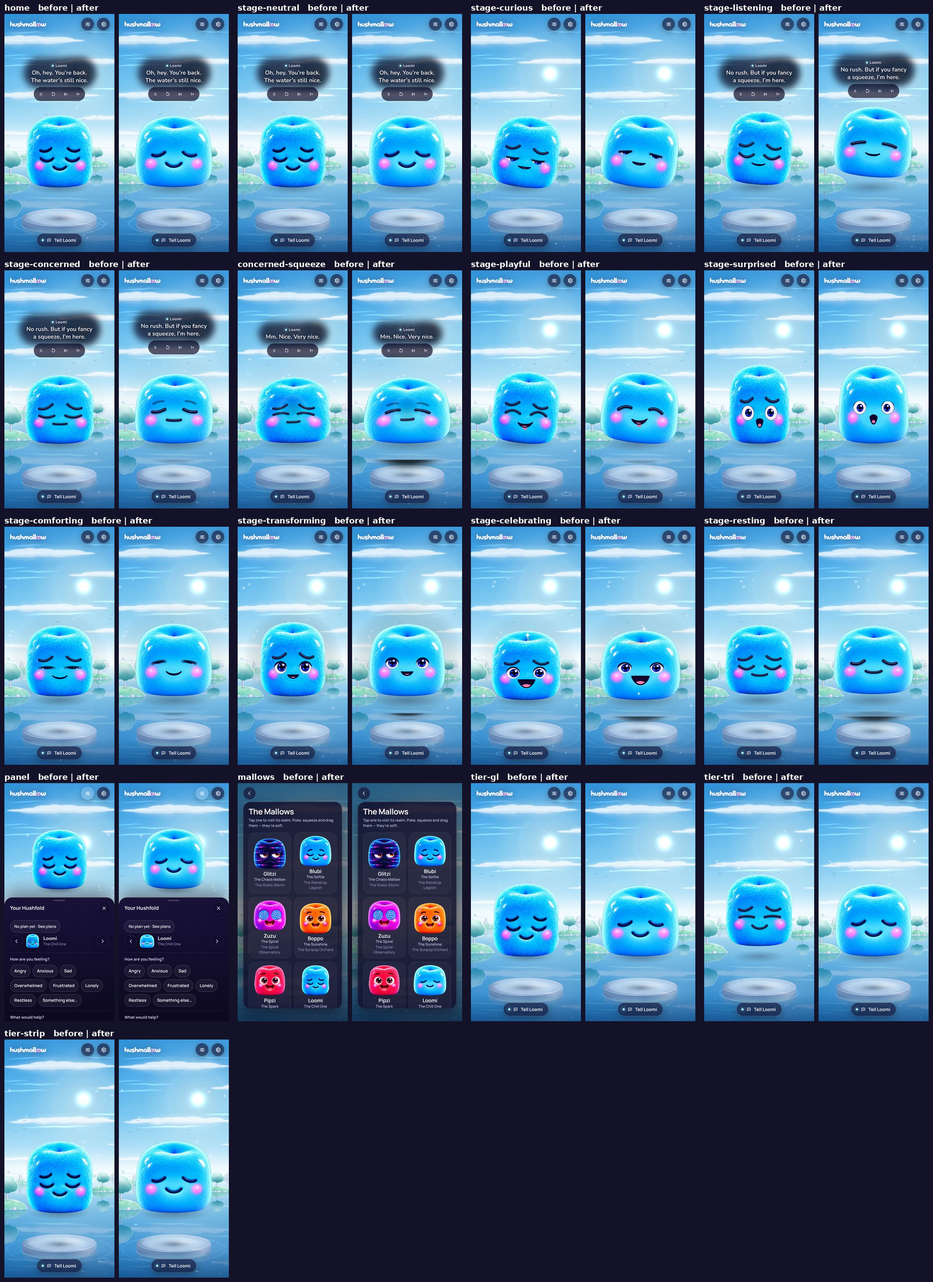
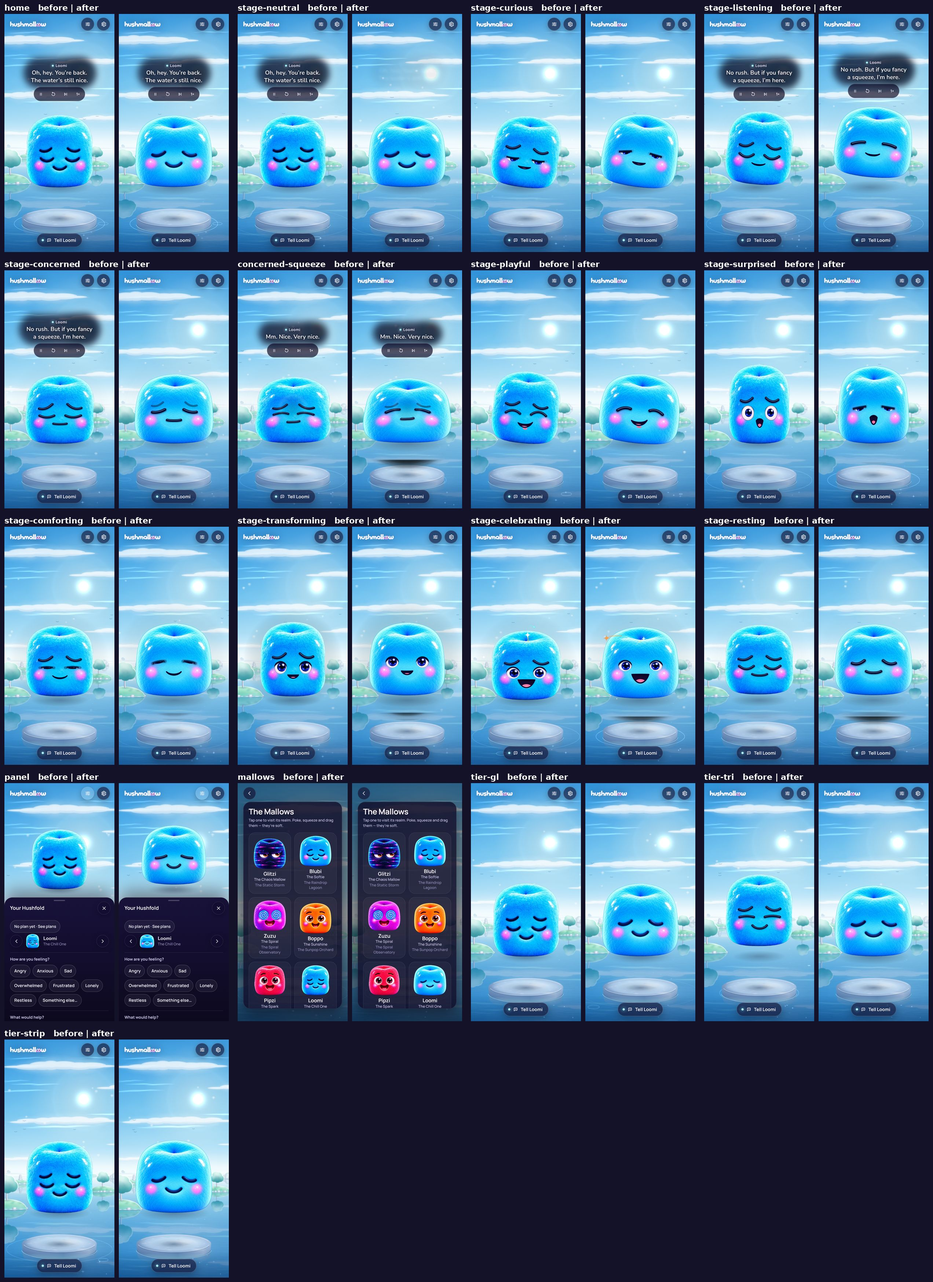
Revert "Hi-res Loomi: arched brows, a stale-proof sweep record, review fixes"
This reverts commit a8fba8b5ab921573841038b2f09a7366df6a7551.

diff --git a/hushmallow/tools/hires/lab/check.js b/hushmallow/tools/hires/lab/check.js
@@ -36,8 +36,6 @@ const tableUrl = Q.get('table') ? new URL(Q.get('table'), location.href).href : 
 
 let RIG, H;
 function make(mid, kind, el, opts = {}) {
-  // kind=old needs the original drawing as its base: without &hires=0 a switched Mallow would draw its new art labelled "old"
-  if (kind === 'old' && MALLOWS[mid].hires) throw new Error(`kind=old: ${mid} is already switched to its high-res rig; add &hires=0 to the URL`);
   // a rig captures MALLOWS[id] when it is built: swap only around the constructor
   const keep = MALLOWS[mid];
   if (kind === 'new') { MALLOWS[mid] = H.hiresMallow(keep, mid); Object.assign(SPRITES, H.HIRES[mid].sprites); }
@@ -250,10 +248,8 @@ async function live() {
 
 // mouth states and talking frames (the Loomi sweep, loomi-sweep.cjs): every
 // mouth parameter at its extremes on rest / happy / concerned, and a talking
-// cycle (mouthOpen 0 -> .6 -> 0) on rest and on the concerned stage, the
-// concerned cells held to the stage's limits as the rig holds them
-// (applyStageLimits: its mouth never opens or smiles past .1 / .2), so the
-// sheet shows what the app can show. window.__info: the concerned maxima.
+// cycle (mouthOpen 0 -> .6 -> 0) on rest and on the concerned stage, whose
+// smile must never turn up (window.__mouths.concernedSmileMax)
 async function mouths() {
   const kind = Q.get('kind') || 'new';
   const rig = make(id, kind, holder(), { pristine: false, skinSize: SK, reducedMotion: true });
@@ -268,21 +264,11 @@ async function mouths() {
     if (bn === 'concerned' && tn) continue;                      // the concerned stage keeps its own mouth (below)
     cells.push([`${bn} ${tn}`.trim(), snap({ skin: renderAt(rig, { ...b, ...t }, { pristine: false, restMix: 0 }) })]);
   }
-  const { applyStageLimits, stageLimits } = RIG.expressions;
-  const lim = stageLimits('concerned');
-  let smileMax = -Infinity, openMax = -Infinity;
   for (const [bn, b] of [['rest', bases.rest], ['concerned', bases.concerned]]) {
-    for (const o of [0, 0.2, 0.4, 0.6, 0.4, 0.2]) {
-      const P = { ...b, mouthOpen: Math.max(b.mouthOpen, o) };
-      if (bn === 'concerned') {
-        applyStageLimits(P, lim, bases.concerned);
-        smileMax = Math.max(smileMax, P.mouthSmile); openMax = Math.max(openMax, P.mouthOpen);
-      }
-      cells.push([`talk ${bn} ${o}`, snap({ skin: renderAt(rig, P, { pristine: false, restMix: 0 }) })]);
-    }
+    for (const o of [0, 0.2, 0.4, 0.6, 0.4, 0.2]) cells.push([`talk ${bn} ${o}`, snap({ skin: renderAt(rig, { ...b, mouthOpen: Math.max(b.mouthOpen, o) }, { pristine: false, restMix: 0 }) })]);
   }
   window.__out = sheet(cells, +(Q.get('cw') || 260), +(Q.get('cols') || 6)).toDataURL('image/png');
-  window.__info = { concernedSmileMax: smileMax, concernedOpenMax: openMax, n: cells.length };
+  window.__info = { concernedSmileMax: bases.concerned.mouthSmile, concernedOpen: bases.concerned.mouthOpen, n: cells.length };
 }
 
 async function jump() {

diff --git a/hushmallow/src/mallows/hires.js b/hushmallow/src/mallows/hires.js
@@ -36,9 +36,9 @@
 // check. HIRES_VERIFIED lists the ones that passed; applyHires() applies those
 // (or the ids you pass) to the registry objects, once, before rigs load.
 // The cyan file without brows is Loomi (owner-approved, workstream
-// hires-loomi): no brows at rest, as drawn; arched brows (build_table.py
-// LOOMI_BROWS) appear only when an expression raises browAlpha, as on Noomi.
-// Sweeps: docs/workstreams/hires-loomi.md.
+// hires-loomi): no brows at rest, as drawn; they appear only when an
+// expression raises browAlpha, as on Noomi. Sweeps:
+// docs/workstreams/hires-loomi.md.
 //
 // Integration (after the patch is merged): in registry.js, once, at the end:
 //   import { applyHires } from './hires.js';  applyHires(MALLOWS, SPRITES);
@@ -547,16 +547,16 @@ const T = {
       },
       brows: {
         L: {
-          p0: [91, 155],
-          c: [115, 145],
-          p1: [139, 152],
+          p0: [84.8, 163.1],
+          c: [111, 175.1],
+          p1: [137.3, 155.1],
           lw: 8.9,
           alpha: 0,
         },
         R: {
-          p0: [246, 151.6],
-          c: [270, 144.6],
-          p1: [294, 154.6],
+          p0: [244.5, 155],
+          c: [271.9, 175.8],
+          p1: [299.4, 161.1],
           lw: 8.8,
           alpha: 0,
         },

diff --git a/hushmallow/tools/hires/build_table.py b/hushmallow/tools/hires/build_table.py
@@ -55,17 +55,7 @@ GLITZI_ROUND_OPEN = {'surprised': 1.4, 'awe': 1.0, 'scared': 0.9}
 #   centred ~1 lw under the groove), not the faint ridge above the current
 #   rig draws; drawn here so the closed frown keeps its carved look at phone
 #   size. [colour, width, offset] in lw units, + = below.
-# Loomi (the browless cyan drawing, owner-approved; workstream hires-loomi):
-#   it paints no brows, so measure.py kept the OLD drawing's brow strokes
-#   relative to the eyes, and those were a second set of lid arcs (U-shaped,
-#   ~20 px above the closed eyes). Faded in by an expression (sad, anxious,
-#   the concerned stage) they read as a ghost double eyelid. These are brows
-#   proper: an arch (control point above the ends) ~30-45 px above the eyes,
-#   placed like Noomi's relative to its eyes, mirrored; still alpha 0 at rest.
-LOOMI_BROWS = {'L': {'p0': [91.0, 155.0], 'c': [115.0, 145.0], 'p1': [139.0, 152.0]},
-               'R': {'p0': [246.0, 151.6], 'c': [270.0, 144.6], 'p1': [294.0, 154.6]}}
-TWEAKS = {'loomi': {('brows', s, k): v for s, b in LOOMI_BROWS.items() for k, v in b.items()},
-          'glitzi': {('eyes', 'L', 'lw'): 6.0, ('eyes', 'R', 'lw'): 6.0,
+TWEAKS = {'glitzi': {('eyes', 'L', 'lw'): 6.0, ('eyes', 'R', 'lw'): 6.0,
                      ('mouth', 'depth'): 27.0, ('mouth', 'upper'): -22.0,
                      ('mouth', 'relief'): [['rgba(34,92,235,0.6)', 0.75, 0.95],
                                            ['rgba(150,190,255,0.16)', 0.5, -0.8]]}}
@@ -346,10 +336,11 @@ head = '''// High-res Mallow rigs: a patch table over registry.js (workstream W7
 // Decision D13: a Mallow switches to its high-res rig only after a visual
 // check. HIRES_VERIFIED lists the ones that passed; applyHires() applies those
 // (or the ids you pass) to the registry objects, once, before rigs load.
-// The cyan file without brows is Loomi (owner-approved, workstream
-// hires-loomi): no brows at rest, as drawn; arched brows (build_table.py
-// LOOMI_BROWS) appear only when an expression raises browAlpha, as on Noomi.
-// Sweeps: docs/workstreams/hires-loomi.md.
+// The cyan file without brows is treated as Loomi (owner to confirm): its
+// high-res rig has no brows at rest (they appear only when an expression
+// raises browAlpha), so Loomi stays off HIRES_VERIFIED until the owner says,
+// and switching six while Loomi keeps its old drawing mixes two styles in
+// the switcher: switch all seven together, or none, for an owner build.
 //
 // Integration (after the patch is merged): in registry.js, once, at the end:
 //   import { applyHires } from './hires.js';  applyHires(MALLOWS, SPRITES);

diff --git a/hushmallow/tools/hires/README.md b/hushmallow/tools/hires/README.md
@@ -18,9 +18,7 @@ Pillow; Node 18+; for step 4, Playwright with Chromium and a local server).
 `data/old-registry.json` is the registry *before* any high-res switch (the
 fixed input of step 2; do not regenerate it after `applyHires` is wired in).
 Hand decisions live in code with their reasons: `measure.py` NEUTRAL and
-MOUTH_LANDMARKS (painted open-mouth points), `build_table.py` LOOMI_BROWS
-(arched brows for the browless drawing: the old drawing's strokes it kept
-were a second lid arc) and TWEAKS (Glitzi's
+MOUTH_LANDMARKS (painted open-mouth points), `build_table.py` TWEAKS (Glitzi's
 lid line, its open-mouth depth / upper lip so an excited mouth stays inside
 the body, its crease relief) and PRESET_OVERRIDES (Glitzi's lids and round
 mouths per preset).
@@ -62,18 +60,7 @@ Serve the repo root (`python3 -m http.server 8000`), then:
   rig), `spin` (Zuzu's eyes at several spin angles), `overflow` (drawn face
   pixels outside the body alpha for every preset, stage and reaction, with
   spring overshoot), `jump` (rest-jump metric, all seven), `live` (ticking
-  rigs at several sizes; `run.cjs page`), `mouths` (every mouth state on
-  rest / happy, and talking frames on rest and on the concerned stage, held
-  to its limits). `kind=old` needs `&hires=0` (it throws otherwise).
-* `lab/loomi-sweep.cjs` — the app sweep that verified Loomi (workstream
-  hires-loomi, `docs/workstreams/hires-loomi.md`): the Hushfold home with
-  Loomi chosen, every stage, the concerned stage under squeeze and tap,
-  MallowTouch tiers, the switcher, the Mallows scene, the V3 card, at
-  390x844 / 360x780 / 320x568, text 1 and 1.25, reduced motion; `PERF=3`
-  for interleaved old/new frame times at 4x CPU. Its numbers are recorded in
-  `data/loomi-sweep.json` with `loomi-fingerprint.mjs` (the table entry and
-  files they were run against): `tests/hires.test.mjs` fails when either
-  changes, until the sweep is re-run and recorded.
+  rigs at several sizes; `run.cjs page`).
 * Rest jump (`mode=jump`): mean |luminance| difference (0-255) in the face
   rect between the approved art and the drawn rest face on one frozen frame
   (t 1.234, no blink, reduced motion, skin 600), Zuzu's spirals at the
@@ -82,7 +69,7 @@ Serve the repo root (`python3 -m http.server 8000`), then:
 
   | | glitzi | zuzu (0.7) | boppo | pipzi | blubi | loomi | noomi |
   |---|---|---|---|---|---|---|---|
-  | high-res | 5.84 | 5.80 (11.83) | 7.53 | 7.47 | 5.04 | 3.48 | 3.45 |
+  | high-res | 5.84 | 5.80 (11.83) | 7.53 | 7.47 | 5.04 | 3.59 | 3.45 |
   | current | 15.73 | 6.90 (12.41) | 8.72 | 8.97 | 6.07 | 6.31 | 4.33 |
 
   A spinning Zuzu jumps by its phase, not its rig: W2, snap `spinAngle` to 0
